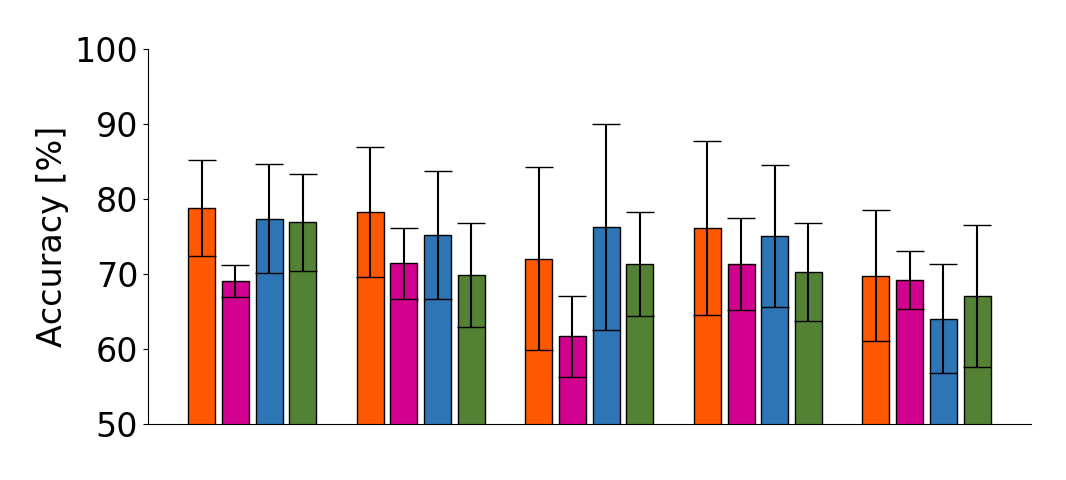
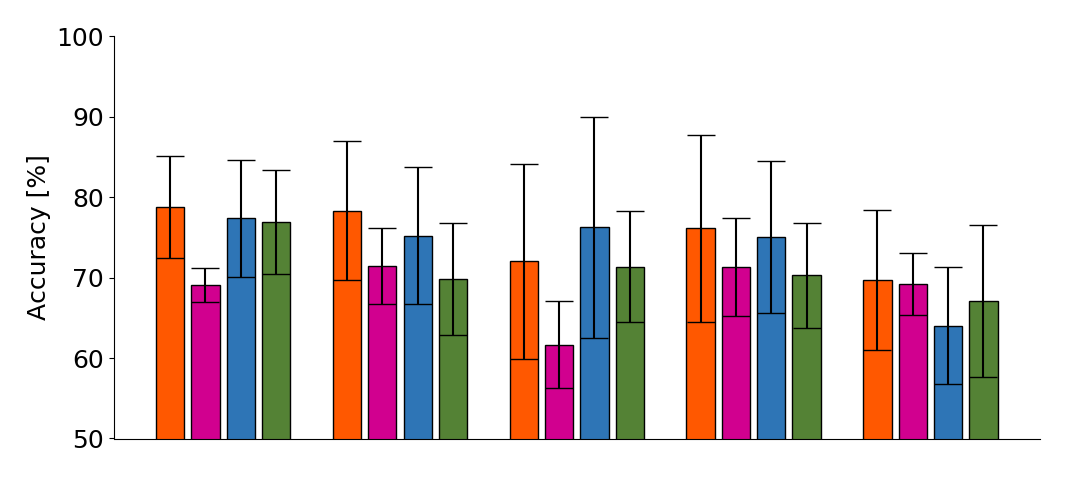
correct testing to test between base scenario (WT SAM) vs others inside each feature set

diff --git a/Code/Analysis Tools/BarPlotPlotterExtended.py b/Code/Analysis Tools/BarPlotPlotterExtended.py
@@ -6,6 +6,7 @@ import sys
 from BarPlotPlotter import BarPlotPlotter
 from pathlib import Path
 from PValueToLetterConverter import PValueToLetterConverter
+from statsmodels.stats.multitest import multipletests
 
 class BarPlotPlotterExtended (BarPlotPlotter):
 
@@ -82,29 +83,53 @@ class BarPlotPlotterExtended (BarPlotPlotter):
         return meanTestP[0], stdTestP[0]
 
     def doStatistics(self, performanceIdx, baseScenarioIdx):
-        baseScenarioName = self.scenarioIdxToNameDict[baseScenarioIdx]
         setsPerofmancesOfBaseScenario = self.testResultTables[baseScenarioIdx]
         differencesBetweenTestScenariosDf = []
         statisticsLetters = ""
-        for versusScenarioIdx in range(len(self.testResultTables)):
-            if versusScenarioIdx != baseScenarioIdx:
-                versusScenarioName = self.scenarioIdxToNameDict[versusScenarioIdx]
-                setsPerofmancesOfVersusScenario = self.testResultTables[versusScenarioIdx]
-                pValueColumnName = f"{baseScenarioName} vs {versusScenarioName} p-values"
-                tStatsColumnName = f"{baseScenarioName} vs {versusScenarioName} T-stat"
-                statisticsOfComparison = self.comparePerformancesBetween(setsPerofmancesOfBaseScenario,
-                            setsPerofmancesOfVersusScenario, performanceIdx,
-                            firstScenarioName=baseScenarioName, secondScenarioName=versusScenarioName,
-                            correctPValues=True)
-                differencesBetweenTestScenariosDf.append(statisticsOfComparison)
-                currentStatisticsLetters = PValueToLetterConverter(statisticsOfComparison.rename(columns={"p-values":"p-value"})).GetGroupNameLetters()
-                statisticsLetters += f"{baseScenarioIdx} vs {versusScenarioName}: {currentStatisticsLetters}\n"
+        for featureSetIdx, featureSetName in enumerate(self.selectedFeatureSetFolders):
+            scenarioResultTables = self.selectTestScenarioResultsOfFeature(featureSetIdx)
+            statisticsOfComparison = self.testAllPerformancesVsIdx(scenarioResultTables, baseScenarioIdx, performanceIdx, featureSetName)
+            differencesBetweenTestScenariosDf.append(statisticsOfComparison)
+            currentStatisticsLetters = PValueToLetterConverter(statisticsOfComparison.rename(columns={"p-values":"p-value"})).GetGroupNameLetters()
+            statisticsLetters += f"{featureSetName}: {currentStatisticsLetters}\n"
         betweenTestScenariosTableName = Path(self.filenameToSave).with_name(Path(self.filenameToSave).stem + "_betweenTestScenariosPValues.csv")
         differencesBetweenTestScenariosDf = pd.concat(differencesBetweenTestScenariosDf)
         differencesBetweenTestScenariosDf.to_csv(betweenTestScenariosTableName)
         statisticsLettersFilename = Path(self.filenameToSave).with_name(Path(self.filenameToSave).stem + "_statisticsLetters.txt")
         with open(statisticsLettersFilename, "w") as file:
             file.write(statisticsLetters)
+
+    def selectTestScenarioResultsOfFeature(self, featureSetIdx):
+        scenarioResultTables = []
+        for allFeaturesResultsOfScenario in self.testResultTables:
+            scenarioResultTables.append(allFeaturesResultsOfScenario[featureSetIdx])
+        return scenarioResultTables
+
+    def testAllPerformancesVsIdx(self, scenarioResultTables, baseScenarioIdx, performanceIdx,
+                                 featureSetName="", correctPValues=True, indexName="test tissue",
+                                 pValueColumnName="p-values", tStatsColumnName="T-stat"):
+        allPValues, allTStats, testCases, group1, group2, usedStatisticalMethod = [], [], [], [], [], []
+        baseScenarioName = self.scenarioIdxToNameDict[baseScenarioIdx]
+        baseScenarioPerformances = self.selectPerformancesFromTableList([scenarioResultTables[baseScenarioIdx]], performanceIdx, indexName)[0]
+        for versusScenarioIdx in range(len(self.testResultTables)):
+            if versusScenarioIdx != baseScenarioIdx:
+                versusScenarioName = self.scenarioIdxToNameDict[versusScenarioIdx]
+                versusScenarioPerformances = self.selectPerformancesFromTableList([scenarioResultTables[versusScenarioIdx]], performanceIdx, indexName)[0]
+                pValue, stat, statsMethod = self.pairwiseComparisonTest(baseScenarioPerformances, versusScenarioPerformances)
+                allPValues.append(pValue)
+                allTStats.append(stat)
+                testCases.append(f"{baseScenarioName} vs {versusScenarioName} {featureSetName}")
+                group1.append(f"{baseScenarioName} {featureSetName}")
+                group2.append(f"{versusScenarioName} {featureSetName}")
+                usedStatisticalMethod.append(statsMethod)
+        if correctPValues:
+            allPValues = list(multipletests(allPValues, method='fdr_bh')[1])
+        pValueTable = {"group1" : group1, "group2" : group2,
+                       pValueColumnName : allPValues,
+                       tStatsColumnName : allTStats,
+                       "statistical method" : usedStatisticalMethod}
+        pValueTable = pd.DataFrame(pValueTable, index=testCases)
+        return pValueTable
 
 def mainDivPredTestComparisons(performance="Acc", doMainFig=True,
                              scenarioResultsFolders = ["Results/divEventData/manualCentres/",
